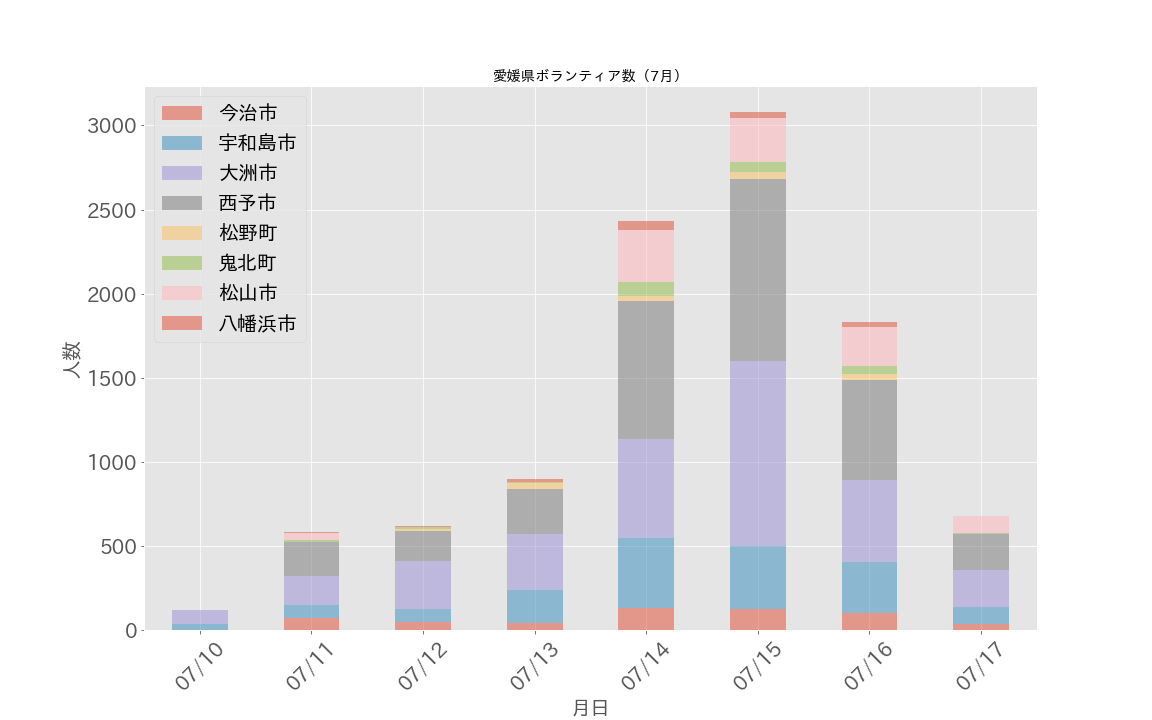
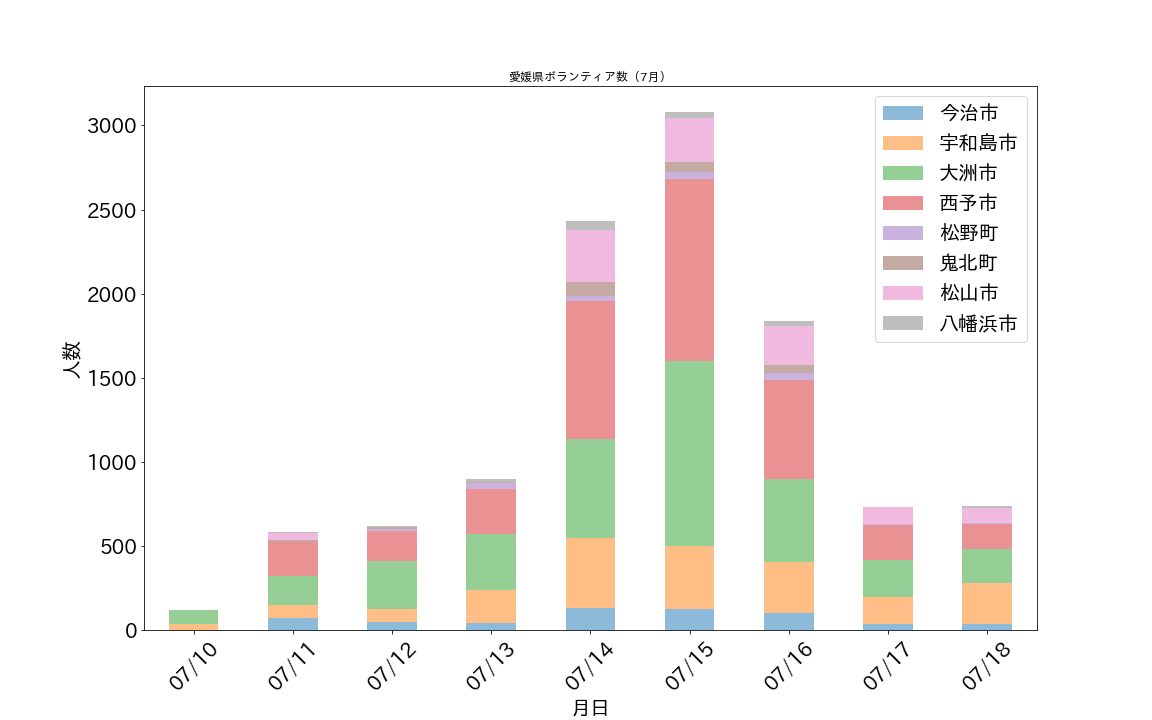
グラフを7/18版に変更

diff --git a/_pages/volunteer_aggregation.md b/_pages/volunteer_aggregation.md
@@ -1,12 +1,13 @@
 ---
-title: 愛媛県ボランティア数集計（デイリー・地域別）（7/17版）
+title: 【愛媛県ボランティア数集計（デイリー・地域別）（7/18版）】
 description: 松山市社協、八幡浜市社協、愛媛災害支援センターが公開しているデータを元に、ボランティア数のグラフを作成・公開しています。
 permalink: /volunteer/aggregation/
 date: 2018-07-18 05:59:06 +0900
-last_modified_at: 2018-07-18 08:41:55 +0900
+last_modified_at: 2018-07-18 21:16:35 +0900
 ---
 
-各社協、ボランティアセンターが公開している情報を元に、愛媛県内のボランティア数の一覧とグラフを公開しています。Google Spread Sheetによるデータは[こちら](https://docs.google.com/spreadsheets/d/1h-GFHoNa55P96wu_HNbPk899eN4HZcnu1T9q4eag8Uc/edit#gid=0)です。 [^1][^2]
+各社協、ボランティアセンターが公開している情報を元に、愛媛県内のボランティア数の一覧とグラフを公開しています。
+Google SpreadSheetによるデータは[こちら](https://docs.google.com/spreadsheets/d/1h-GFHoNa55P96wu_HNbPk899eN4HZcnu1T9q4eag8Uc/edit#gid=0)です。 [^1][^2]
 
 ![愛媛県内ボランティア数（日次）](/assets/images/volunteer_count.png)
 
@@ -15,16 +16,17 @@ last_modified_at: 2018-07-18 08:41:55 +0900
 
 
 
-  | Date       | 今治市 | 宇和島市 | 大洲市 | 西予市 | 松野町 | 鬼北町 | 松山市 | 八幡浜市 |
+| Date       | 今治市 | 宇和島市 | 大洲市 | 西予市 | 松野町 | 鬼北町 | 松山市 | 八幡浜市 |
 |------------|--------|----------|--------|--------|--------|--------|--------|----------|
-| 2018-07-10 |        | 35       | 82     |        |        |        |        |          |
-| 2018-07-11 | 71     | 76       | 177    | 201    |        | 9      | 40     | 7        |
-| 2018-07-12 | 50     | 74       | 284    | 180    | 13     | 12     |        | 8        |
-| 2018-07-13 | 41     | 198      | 333    | 267    | 33     | 9      |        | 15       |
-| 2018-07-14 | 131    | 415      | 587    | 823    | 27     | 88     | 309    | 50       |
-| 2018-07-15 | 126    | 374      | 1099   | 1081   | 44     | 56     | 262    | 36       |
-| 2018-07-16 | 102    | 305      | 487    | 591    | 35     | 50     | 232    | 29       |
-| 2018-07-17 | 37     | 100      | 221    | 210    | 4      | 3      | 100    |          |
+| 2018-07-10 |        |       35 |     82 |        |        |        |        |          |
+| 2018-07-11 |     71 |       76 |    177 |    201 |        |      9 |     40 |        7 |
+| 2018-07-12 |     50 |       74 |    284 |    180 |     13 |     12 |        |        8 |
+| 2018-07-13 |     41 |      198 |    333 |    267 |     33 |      9 |        |       15 |
+| 2018-07-14 |    131 |      415 |    587 |    823 |     27 |     88 |    309 |       50 |
+| 2018-07-15 |    126 |      374 |   1099 |   1081 |     44 |     56 |    262 |       36 |
+| 2018-07-16 |    102 |      305 |    491 |    591 |     37 |     50 |    232 |       29 |
+| 2018-07-17 |     37 |      157 |    222 |    210 |      4 |      3 |    100 |          |
+| 2018-07-18 |     37 |      241 |    205 |    149 |      4 |      0 |     88 |       14 |
 
 ### 元データ
 
